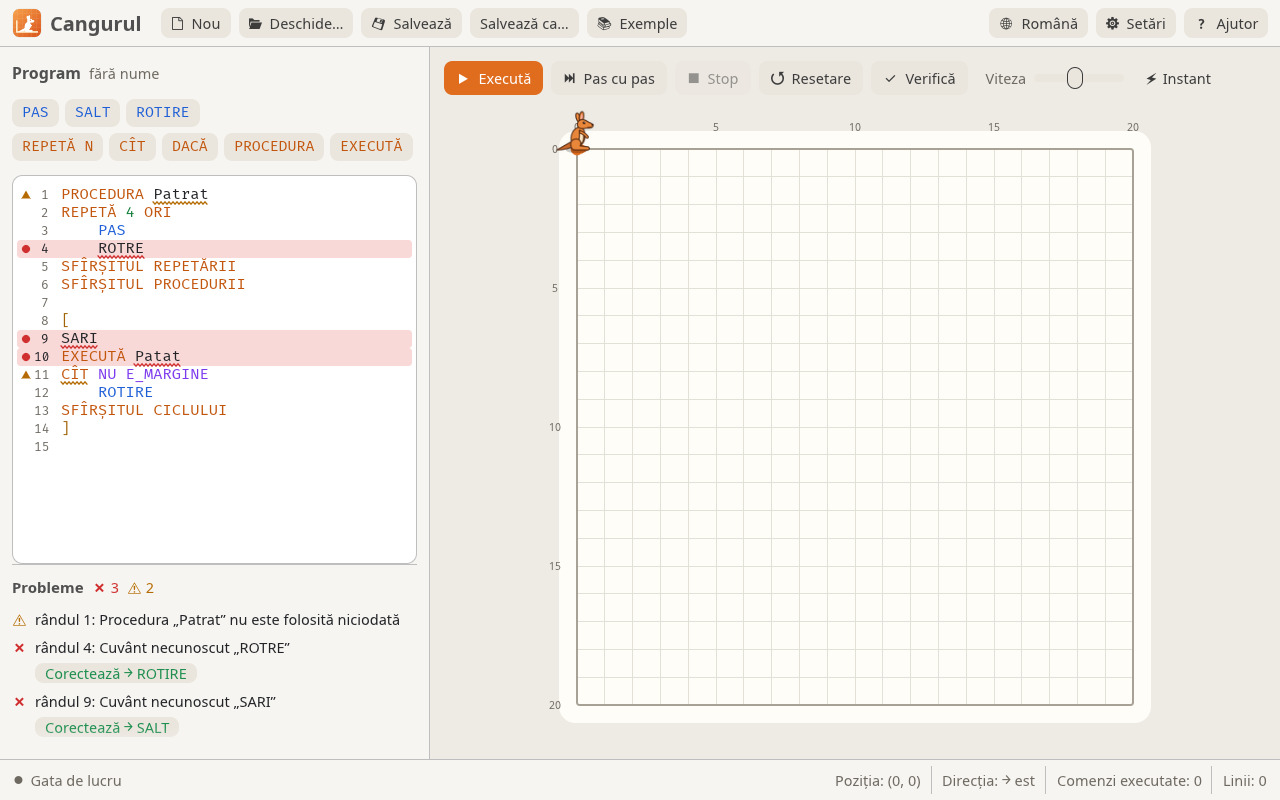
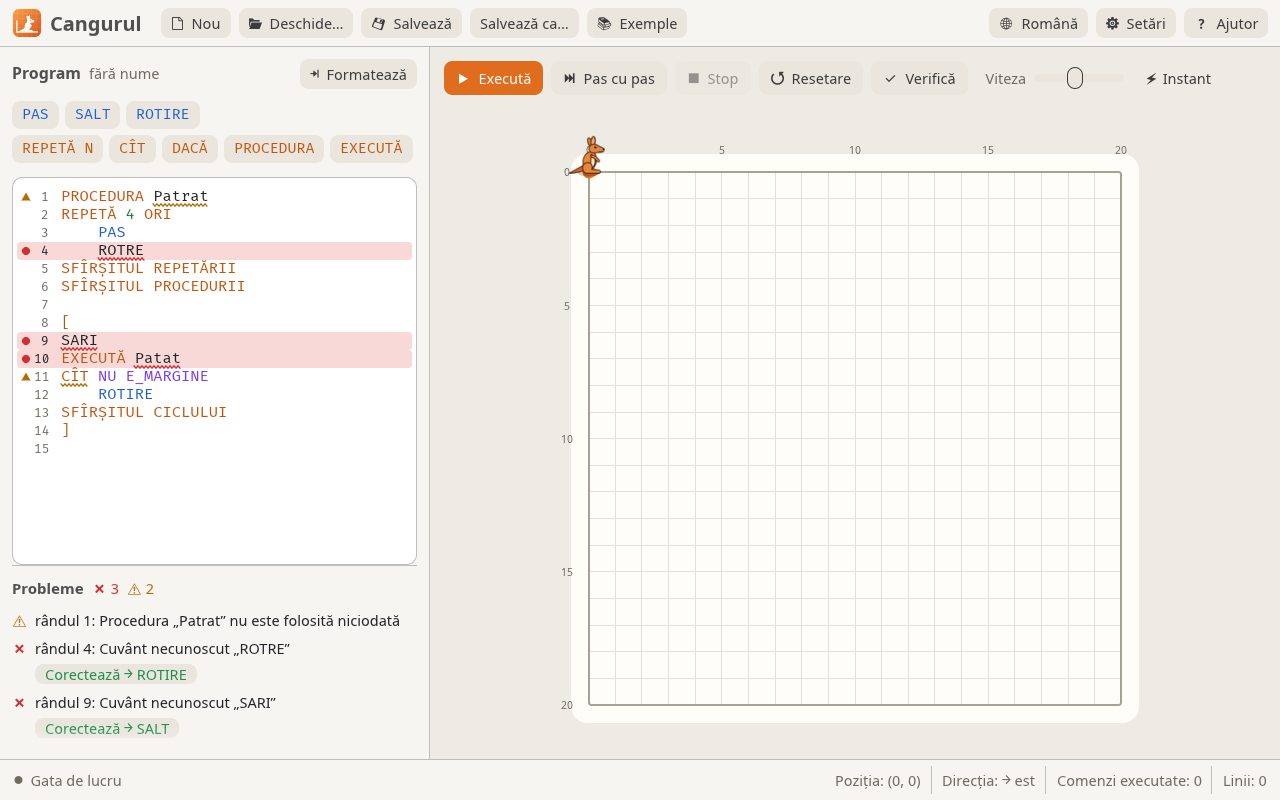
Capturile aplicației în română, engleză și rusă, pe pagină și în README

diff --git a/site/template.html b/site/template.html
@@ -66,7 +66,7 @@
     </div>
     <div class="shot-band">
       <div class="wrap">
-        <img class="shot shot-hero" src="{{ root }}assets/screenshot.png" width="1280" height="800" alt="{{ screenshot_alt }}">
+        <img class="shot shot-hero" src="{{ root }}assets/screenshot{{ shot }}.png" width="1280" height="800" alt="{{ screenshot_alt }}">
       </div>
     </div>
   </section>
@@ -76,15 +76,15 @@
       <h2 data-reveal>{{{ features_title }}}</h2>
       <div class="feature" data-reveal>
         <div class="feature-text"><h3>{{{ f1_title }}}</h3><p>{{{ f1_text }}}</p></div>
-        <figure class="crop" style="--x: 0; --y: 55; --w: 430; --h: 330"><img src="{{ root }}assets/screenshot.png" width="1280" height="800" alt="{{ f1_alt }}" loading="lazy"></figure>
+        <figure class="crop" style="--x: 0; --y: 55; --w: 430; --h: 330"><img src="{{ root }}assets/screenshot{{ shot }}.png" width="1280" height="800" alt="{{ f1_alt }}" loading="lazy"></figure>
       </div>
       <div class="feature" data-reveal>
         <div class="feature-text"><h3>{{{ f2_title }}}</h3><p>{{{ f2_text }}}</p></div>
-        <figure class="crop" style="--x: 0; --y: 170; --w: 430; --h: 575"><img src="{{ root }}assets/analizor.png" width="1280" height="800" alt="{{ analyzer_alt }}" loading="lazy"></figure>
+        <figure class="crop" style="--x: 0; --y: 170; --w: 430; --h: 575"><img src="{{ root }}assets/analizor{{ shot }}.png" width="1280" height="800" alt="{{ analyzer_alt }}" loading="lazy"></figure>
       </div>
       <div class="feature" data-reveal>
         <div class="feature-text"><h3>{{{ f3_title }}}</h3><p>{{{ f3_text }}}</p></div>
-        <figure class="crop" style="--x: 430; --y: 50; --w: 850; --h: 690"><img src="{{ root }}assets/screenshot.png" width="1280" height="800" alt="{{ f3_alt }}" loading="lazy"></figure>
+        <figure class="crop" style="--x: 430; --y: 50; --w: 850; --h: 690"><img src="{{ root }}assets/screenshot{{ shot }}.png" width="1280" height="800" alt="{{ f3_alt }}" loading="lazy"></figure>
       </div>
     </div>
   </section>

diff --git a/src/app.rs b/src/app.rs
@@ -2457,6 +2457,98 @@ mod tests {
             shot(&mut h, "help-author");
         }
 
+        /// Exemplul „Cangur” cu cuvintele și procedurile în limba `lang`.
+        fn translate(src: &str, lang: Lang) -> String {
+            const WORDS: &[[&str; 3]] = &[
+                ["PAS", "step", "шаг"],
+                ["SALT", "jump", "прыжок"],
+                ["ROTIRE", "rotate", "поворот"],
+                ["PROCEDURA", "procedure", "процедура"],
+                ["SFIRSITUL", "end", "конец"],
+                ["PROCEDURII", "procedure", "процедуры"],
+                ["EXECUTA", "execute", "выполнить"],
+                ["CIT", "while", "пока"],
+                ["NU", "not", "не"],
+                ["E_MARGINE", "is_border", "край"],
+                ["CICLULUI", "cycle", "цикла"],
+                ["RIND_NOU", "New_Line", "Новая_строка"],
+            ];
+            let i = match lang {
+                Lang::Ro => return src.to_string(),
+                Lang::En => 1,
+                Lang::Ru => 2,
+            };
+            let mut out = String::new();
+            let mut word = String::new();
+            let flush = |word: &mut String, out: &mut String| {
+                let n = lang::normalize(word);
+                if let Some(w) = WORDS.iter().find(|w| w[0] == n) {
+                    out.push_str(w[i]);
+                } else if let Some(l) = word.strip_prefix("Litera_") {
+                    out.push_str(["", "Letter_", "Буква_"][i]);
+                    out.push_str(l);
+                } else {
+                    out.push_str(word);
+                }
+                word.clear();
+            };
+            for c in src.chars() {
+                if c.is_alphanumeric() || c == '_' {
+                    word.push(c);
+                } else {
+                    flush(&mut word, &mut out);
+                    out.push(c);
+                }
+            }
+            flush(&mut word, &mut out);
+            out
+        }
+
+        /// Capturile pentru pagina web, în fiecare limbă:
+        /// `CANGURUL_SHOTS=docs/assets cargo test --release site_screenshots`.
+        #[test]
+        fn site_screenshots() {
+            let analyzer = [
+                (
+                    Lang::Ro,
+                    "",
+                    "PROCEDURA Patrat\nREPETĂ 4 ORI\n    PAS\n    ROTRE\nSFÎRȘITUL REPETĂRII\nSFÎRȘITUL PROCEDURII\n\n[\nSARI\nEXECUTĂ Patat\nCÎT NU E_MARGINE\n    ROTIRE\nSFÎRȘITUL CICLULUI\n]\n",
+                ),
+                (
+                    Lang::En,
+                    "-en",
+                    "PROCEDURE Square\nREPEAT 4 TIMES\n    STEP\n    ROTAE\nEND REPEAT\nEND PROCEDURE\n\n[\nJUMPP\nEXECUTE Sqare\nWHILE NOT IS_BORDER\n    ROTATE\nEND CYCLE\n]\n",
+                ),
+                (
+                    Lang::Ru,
+                    "-ru",
+                    "ПРОЦЕДУРА Квадрат\nПОВТОРИ 4 РАЗА\n    ШАГ\n    ПОВРОТ\nКОНЕЦ ПОВТОРЕНИЯ\nКОНЕЦ ПРОЦЕДУРЫ\n\n[\nПРЫЖК\nВЫПОЛНИТЬ Квдрат\nПОКА НЕ КРАЙ\n    ПОВОРОТ\nКОНЕЦ ЦИКЛА\n]\n",
+                ),
+            ];
+            for (lang, suffix, bad) in analyzer {
+                let mut h = harness();
+                h.ctx.set_theme(ThemePreference::Light);
+                h.state_mut().s.lang = lang;
+                h.state_mut().s.code = translate(EXAMPLES[0].1, lang);
+                h.state_mut().s.instant = true;
+                h.run_steps(3);
+                h.state_mut().start(Mode::Running);
+                run_until_idle(&mut h);
+                assert!(matches!(h.state().status, Status::Finished), "{lang:?}");
+                shot(&mut h, &format!("screenshot{suffix}"));
+
+                let mut h = harness();
+                h.ctx.set_theme(ThemePreference::Light);
+                h.state_mut().s.lang = lang;
+                h.state_mut().s.code = bad.into();
+                h.run_steps(3);
+                let errs: Vec<usize> = h.state().analysis.errors.iter().map(|e| e.line).collect();
+                assert_eq!(errs, vec![4, 9, 10], "{lang:?}");
+                assert_eq!(h.state().analysis.warnings.len(), 2, "{lang:?}");
+                shot(&mut h, &format!("analizor{suffix}"));
+            }
+        }
+
         #[test]
         fn run_example_from_ui() {
             let mut h = harness();

diff --git a/site/tests/test_build.py b/site/tests/test_build.py
@@ -16,7 +16,9 @@ import build  # noqa: E402
 class ChangelogTest(unittest.TestCase):
     def test_sections_from_real_changelog(self):
         md = (ROOT / "CHANGELOG.md").read_text(encoding="utf-8")
-        s = build.changelog_sections(md, 2)
+        # Fără versiunile apărute după scrierea testului.
+        versions = [x["version"] for x in build.changelog_sections(md, 50)]
+        s = build.changelog_sections(md, versions.index("3.0.2") + 1)[-2:]
         self.assertEqual([x["version"] for x in s], ["3.0.3", "3.0.2"])
         self.assertEqual(s[0]["date"], "2026-10-23")
         self.assertNotIn("[3.0.2]: https://", s[1]["body"])
@@ -126,6 +128,15 @@ class BuildTest(unittest.TestCase):
             self.assertIn('href="mailto:nicolae.postica2@gmail.com"', html)
             self.assertRegex(html, r'<img class="author-photo" src="(\.\./)?assets/author\.png"')
         self.assertTrue((self.out / "assets" / "author.png").exists())
+
+    def test_screenshots_in_page_language(self):
+        for p, suffix in (("index.html", ""), ("en/index.html", "-en"), ("ru/index.html", "-ru")):
+            html = self.page(p)
+            imgs = re.findall(r'assets/(screenshot[^"]*|analizor[^"]*)\.png', html)
+            self.assertTrue(imgs, p)
+            self.assertEqual(set(imgs), {f"screenshot{suffix}", f"analizor{suffix}"}, p)
+            for name in set(imgs):
+                self.assertTrue((self.out / "assets" / f"{name}.png").exists(), name)
 
     def test_home_links_stay_in_language(self):
         self.assertIn('class="brand" href="./"', self.page("en/index.html"))

diff --git a/site/build.py b/site/build.py
@@ -133,12 +133,14 @@ def md_to_html(md):
 ROOT = Path(__file__).resolve().parent.parent
 SITE = ROOT / "site"
 LANGS = {"ro": "", "en": "en/", "ru": "ru/"}
+SHOT_SUFFIX = {"ro": "", "en": "-en", "ru": "-ru"}
 NEWS_COUNT = 3
 PLACEHOLDER = re.compile(r"\{\{\{\s*(\w+)\s*\}\}\}|\{\{\s*(\w+)\s*\}\}")
 IMAGES = {
     "logo.png": ROOT / "assets/logo.png",
-    "screenshot.png": ROOT / "docs/assets/screenshot.png",
-    "analizor.png": ROOT / "docs/assets/analizor.png",
+    # Capturile aplicației, câte una pentru fiecare limbă a paginii.
+    **{f"{shot}{SHOT_SUFFIX[lang]}.png": ROOT / f"docs/assets/{shot}{SHOT_SUFFIX[lang]}.png"
+       for shot in ("screenshot", "analizor") for lang in LANGS},
     "og.png": ROOT / "docs/assets/cangurul-banner.png",
     "kangaroo.svg": ROOT / "assets/art/east.svg",
     "kangaroo-tired.svg": ROOT / "assets/art/tired.svg",
@@ -189,6 +191,7 @@ def build(release, out):
         values.update({
             "root": "../" if path else "",
             "path": path,
+            "shot": SHOT_SUFFIX[lang],
             "home_ro": "../" if path else "./",
             "version": version,
             "date": format_date(release["publishedAt"], t["months"], t["date_format"]),

diff --git a/README.ru.md b/README.ru.md
@@ -28,7 +28,7 @@
 используют в школах Молдовы и Румынии. Файлы `.cng` из старой версии
 открываются и выполняются без изменений.
 
-<img src="docs/assets/screenshot.png" alt="Cangurul: оригинальный пример после выполнения" />
+<img src="docs/assets/screenshot-ru.png" alt="Cangurul: оригинальный пример после выполнения" />
 
 ## Быстрый старт
 
@@ -146,7 +146,7 @@ OpenGL 2.0, чтобы программа работала и на старых 
 
 ## Анализатор кода
 
-<img src="docs/assets/analizor.png" alt="Анализатор кода с ошибками и подсказками" />
+<img src="docs/assets/analizor-ru.png" alt="Анализатор кода с ошибками и подсказками" />
 
 Программа анализируется при каждом изменении (это можно выключить в
 *Настройках*; тогда анализ запускается кнопкой **Проверить** / F7). Анализатор

diff --git a/README.en.md b/README.en.md
@@ -28,7 +28,7 @@ A **Rust** rewrite of the “Cangurul” program (version 2), used in schools in
 Moldova and Romania. `.cng` files from the old version open and run unchanged.
 *Cangurul* is Romanian for “the kangaroo”.
 
-<img src="docs/assets/screenshot.png" alt="Cangurul: an original example after running" />
+<img src="docs/assets/screenshot-en.png" alt="Cangurul: an original example after running" />
 
 ## Quick start
 
@@ -146,7 +146,7 @@ The kangaroo starts in the top-left corner, facing right.
 
 ## Code analyzer
 
-<img src="docs/assets/analizor.png" alt="The code analyzer with errors and suggestions" />
+<img src="docs/assets/analizor-en.png" alt="The code analyzer with errors and suggestions" />
 
 The program is analyzed on every change (this can be turned off in
 *Settings*; then analysis runs with **Check** / F7). The analyzer doesn't stop
